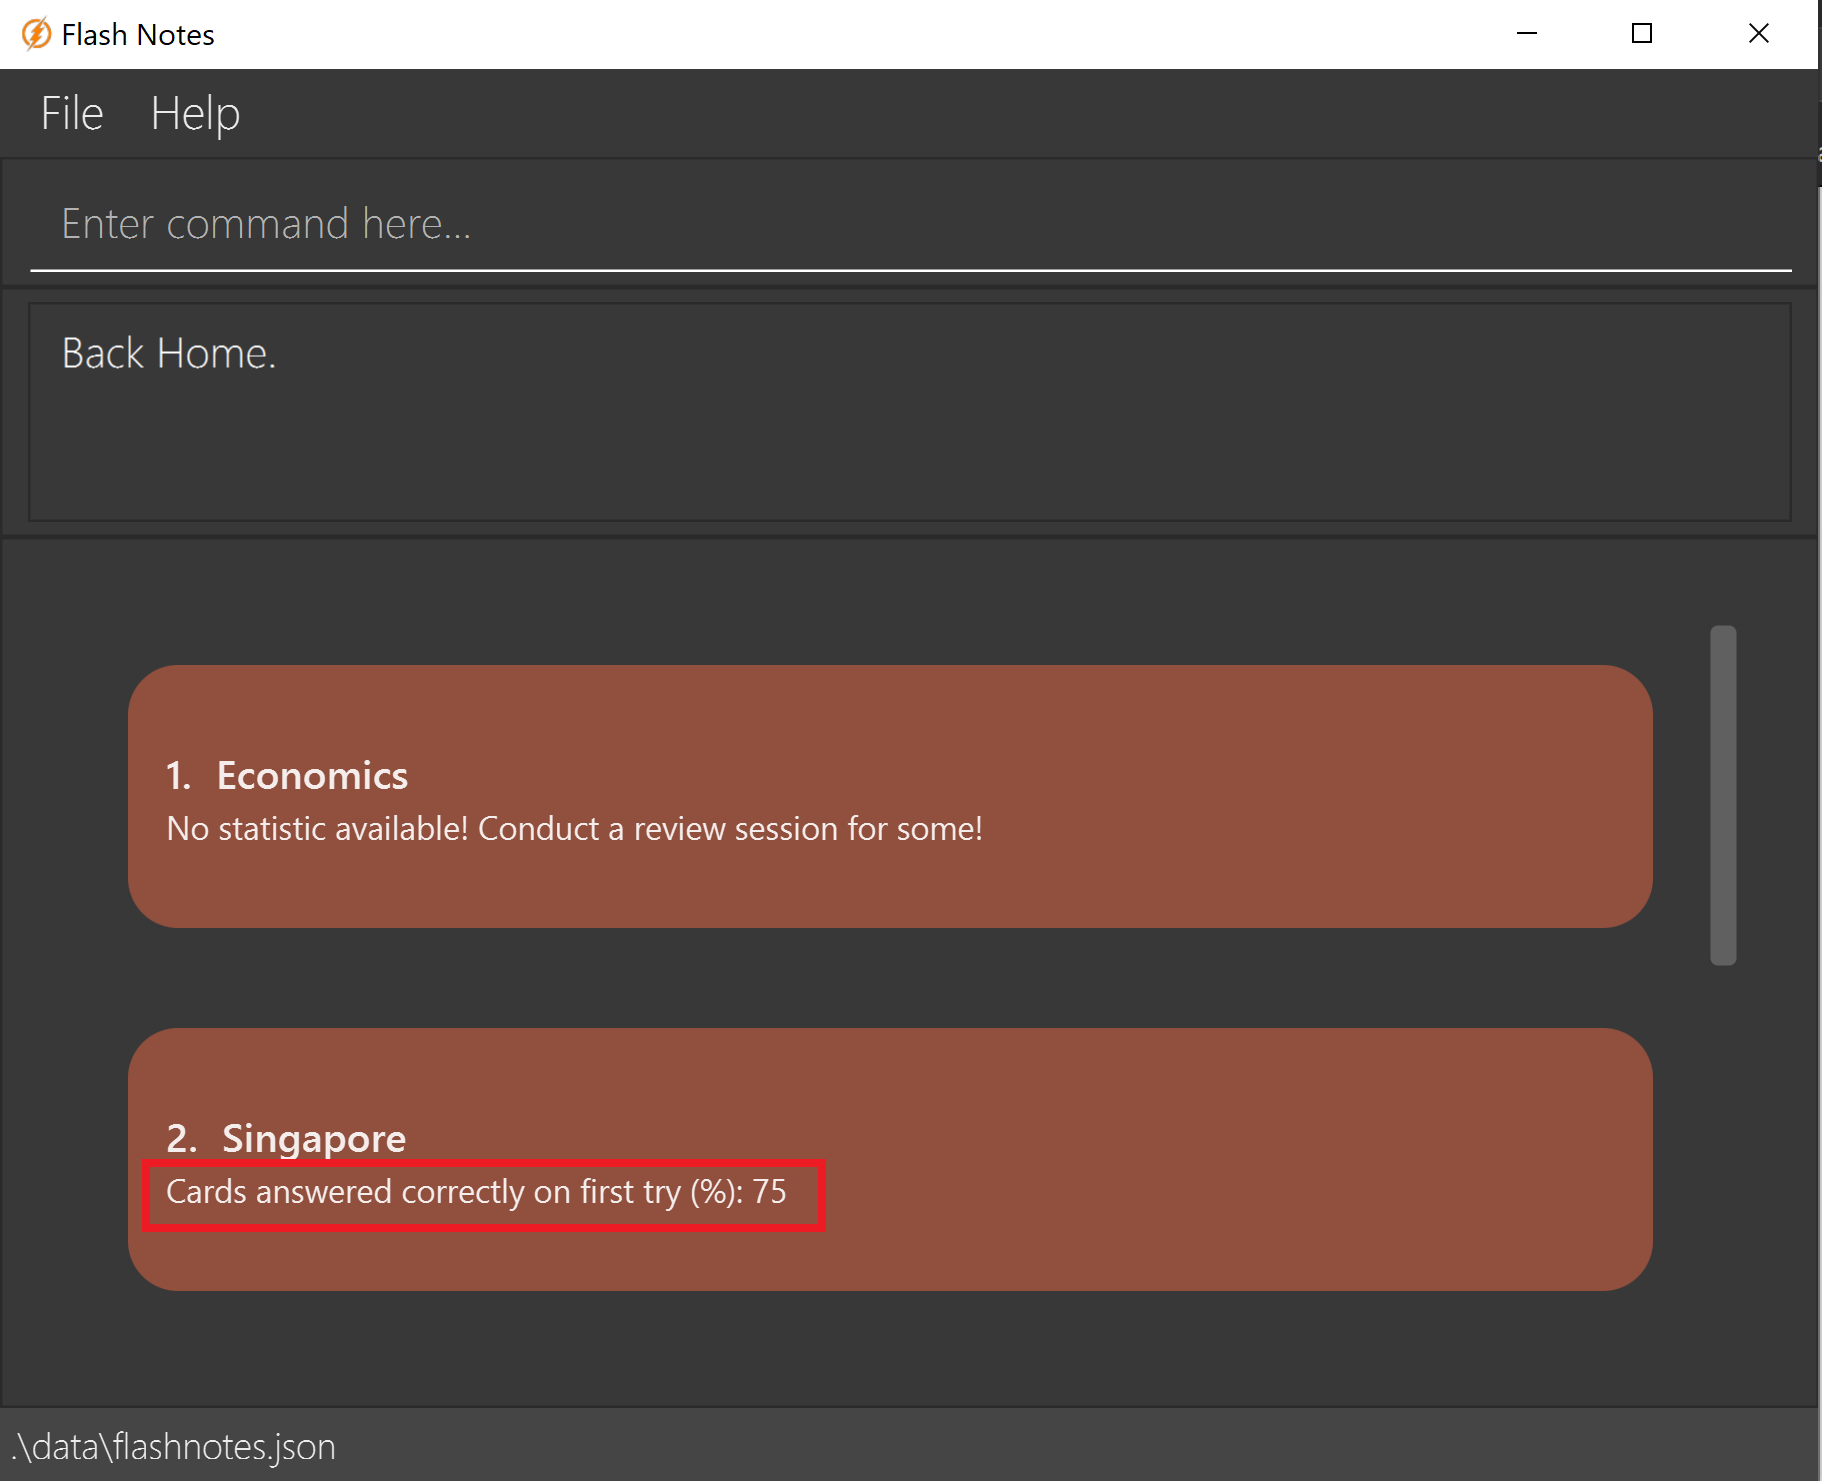
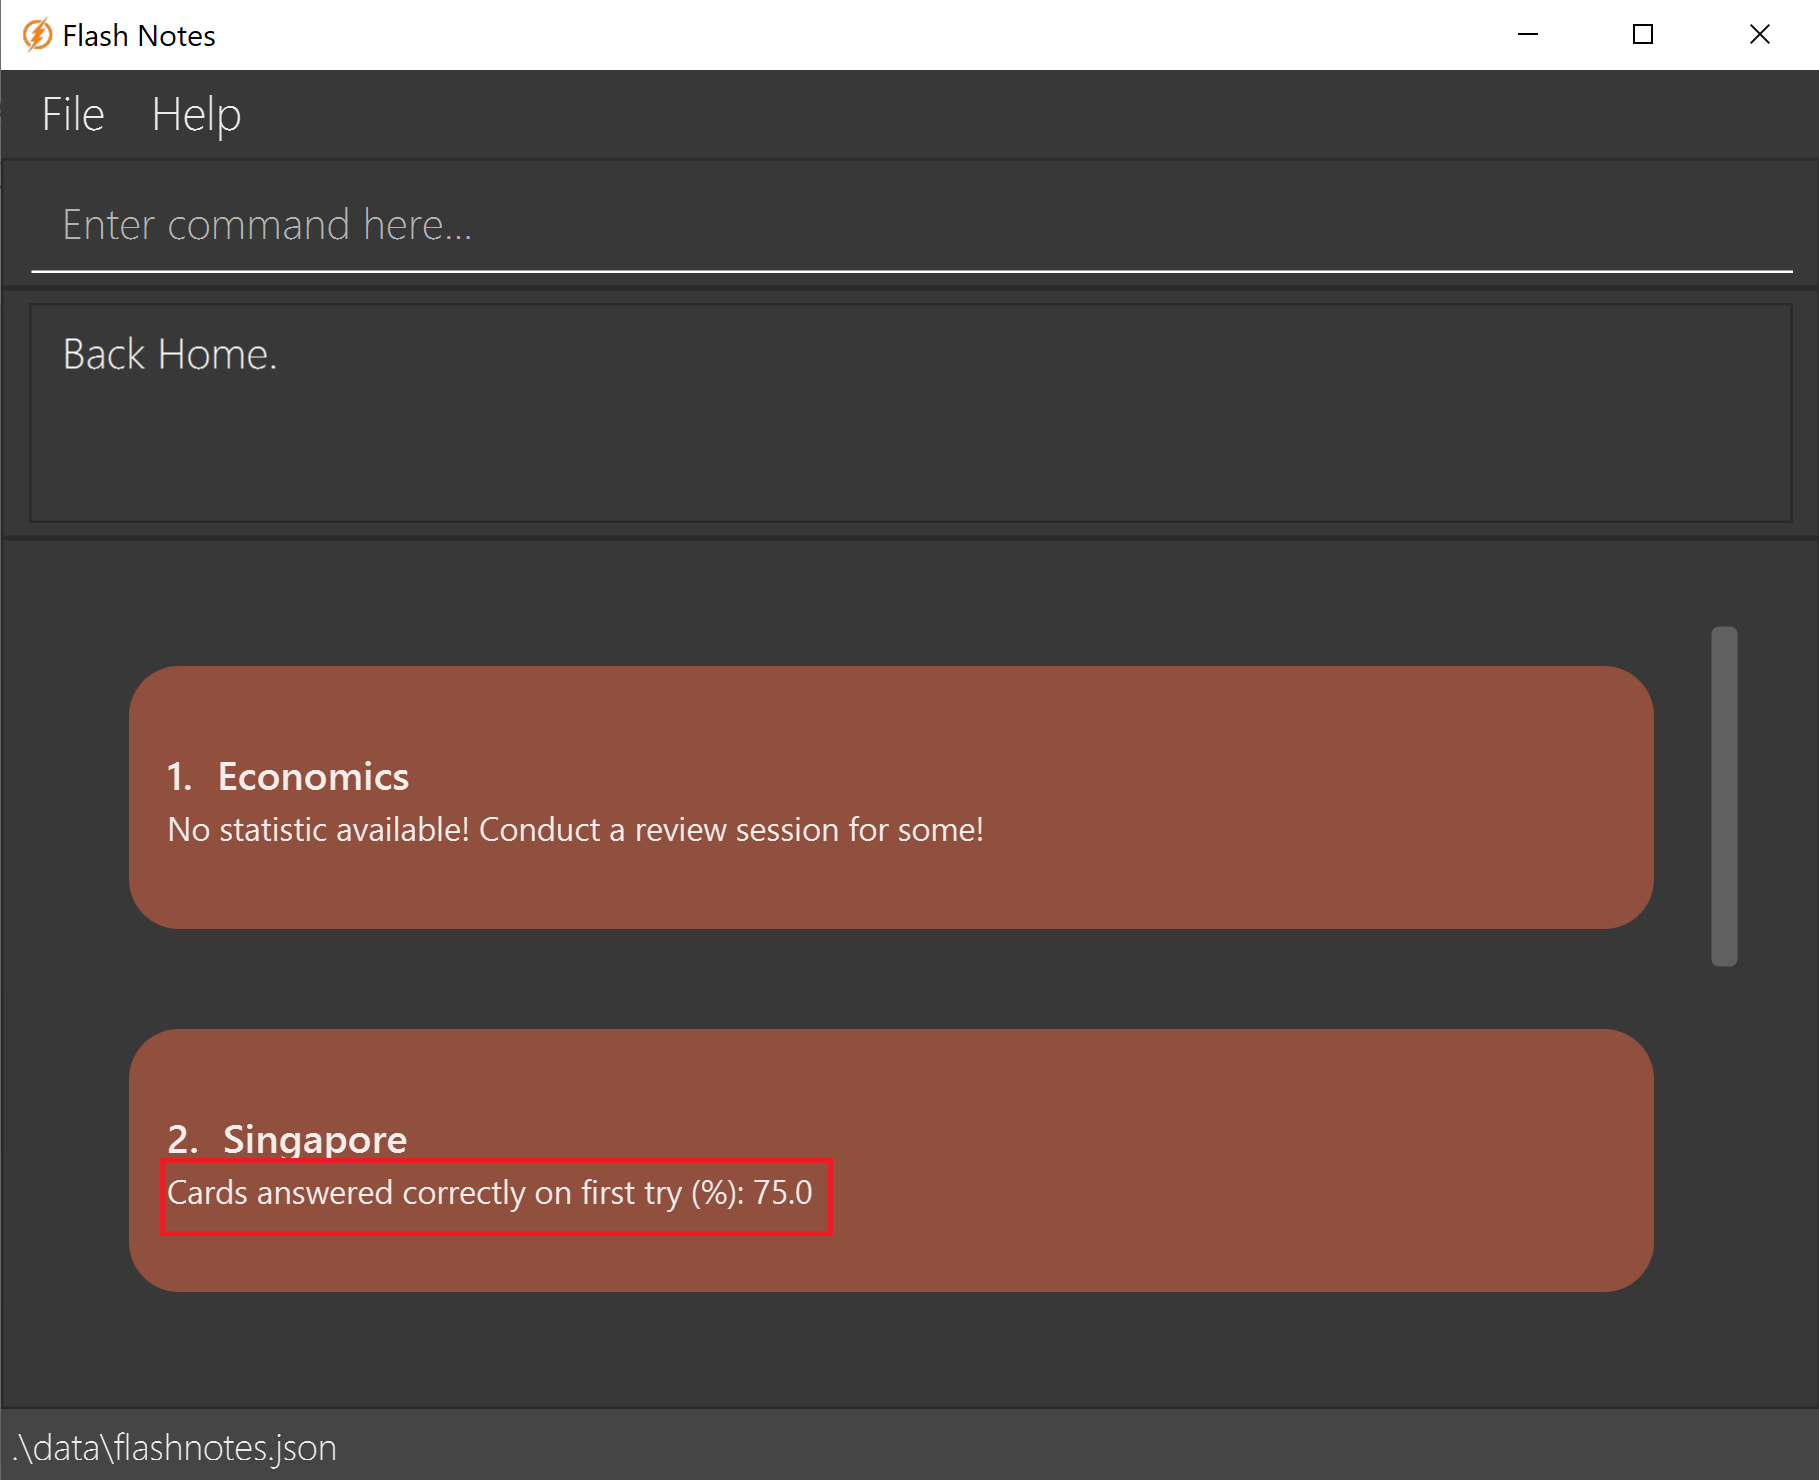
UG: Update to recent changes

diff --git a/docs/UserGuide.md b/docs/UserGuide.md
@@ -830,7 +830,7 @@ At the end of a review session, FlashNotes will calculate your score for the ses
 As shown in the above image, the Review Window will display the following information:
  * The **total number of questions** you undertook in the review session.
  * The **number of questions marked as correct during your first attempt** at the question.
- * The calculated **percentage of questions answered correctly on your first attempt**.
+ * The calculated **percentage of questions answered correctly on your first attempt** rounded to 1 decimal place.
 
 Of the three types of information, only the calculated percentage will be saved by FlashNotes. This is so that you can track your revision progress for any deck that you conduct a review session in.
 
